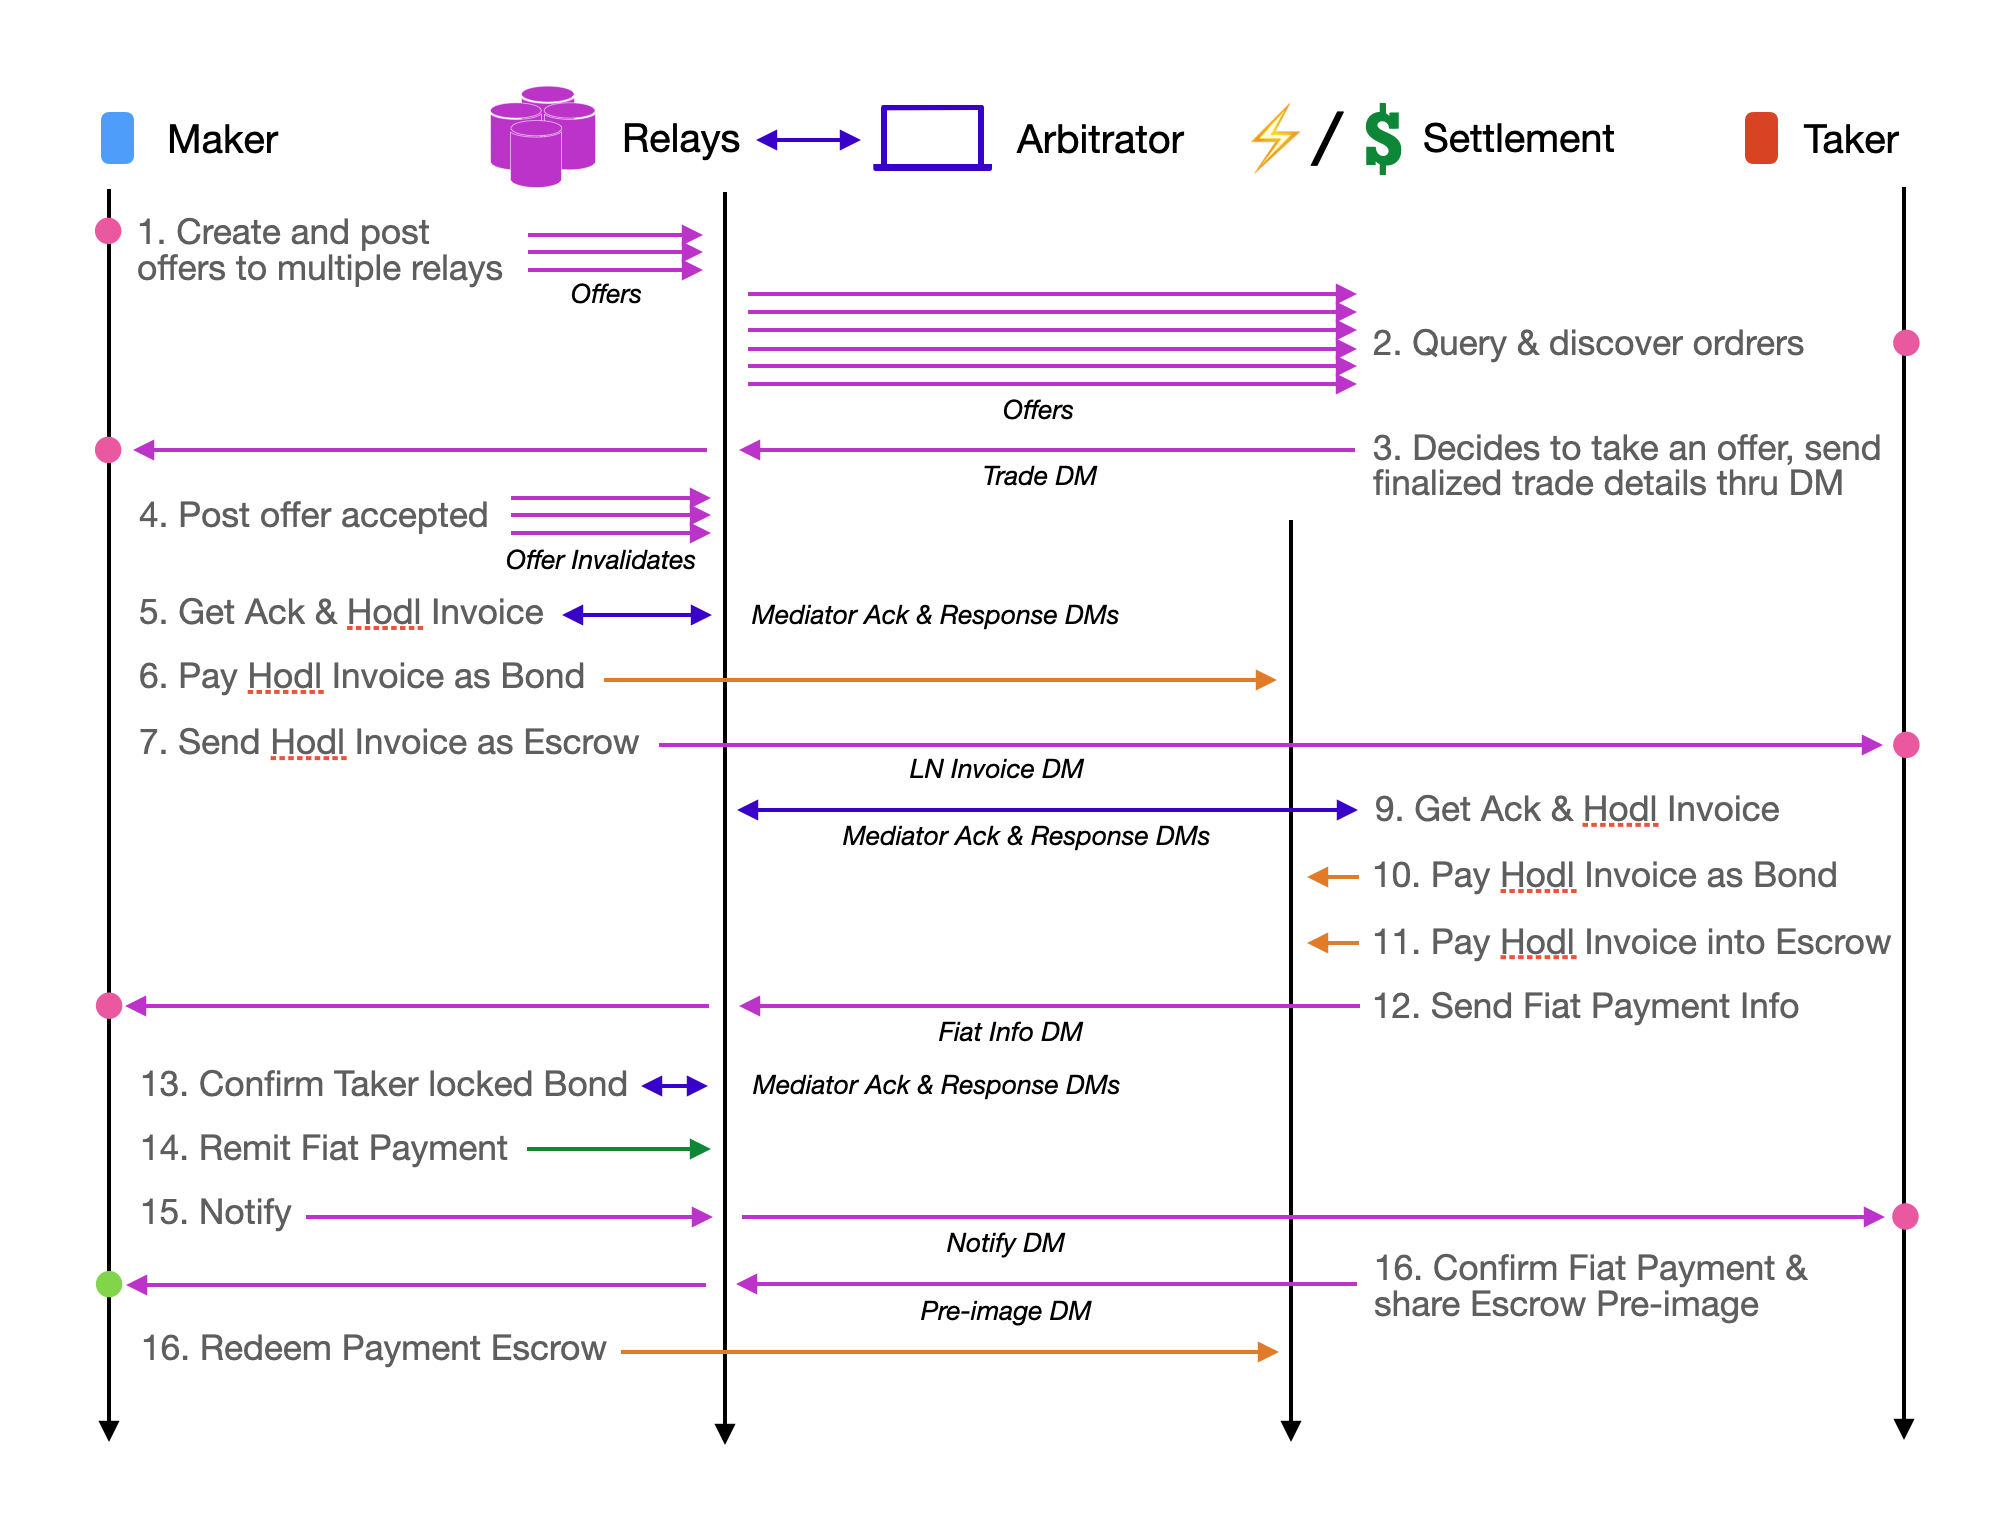
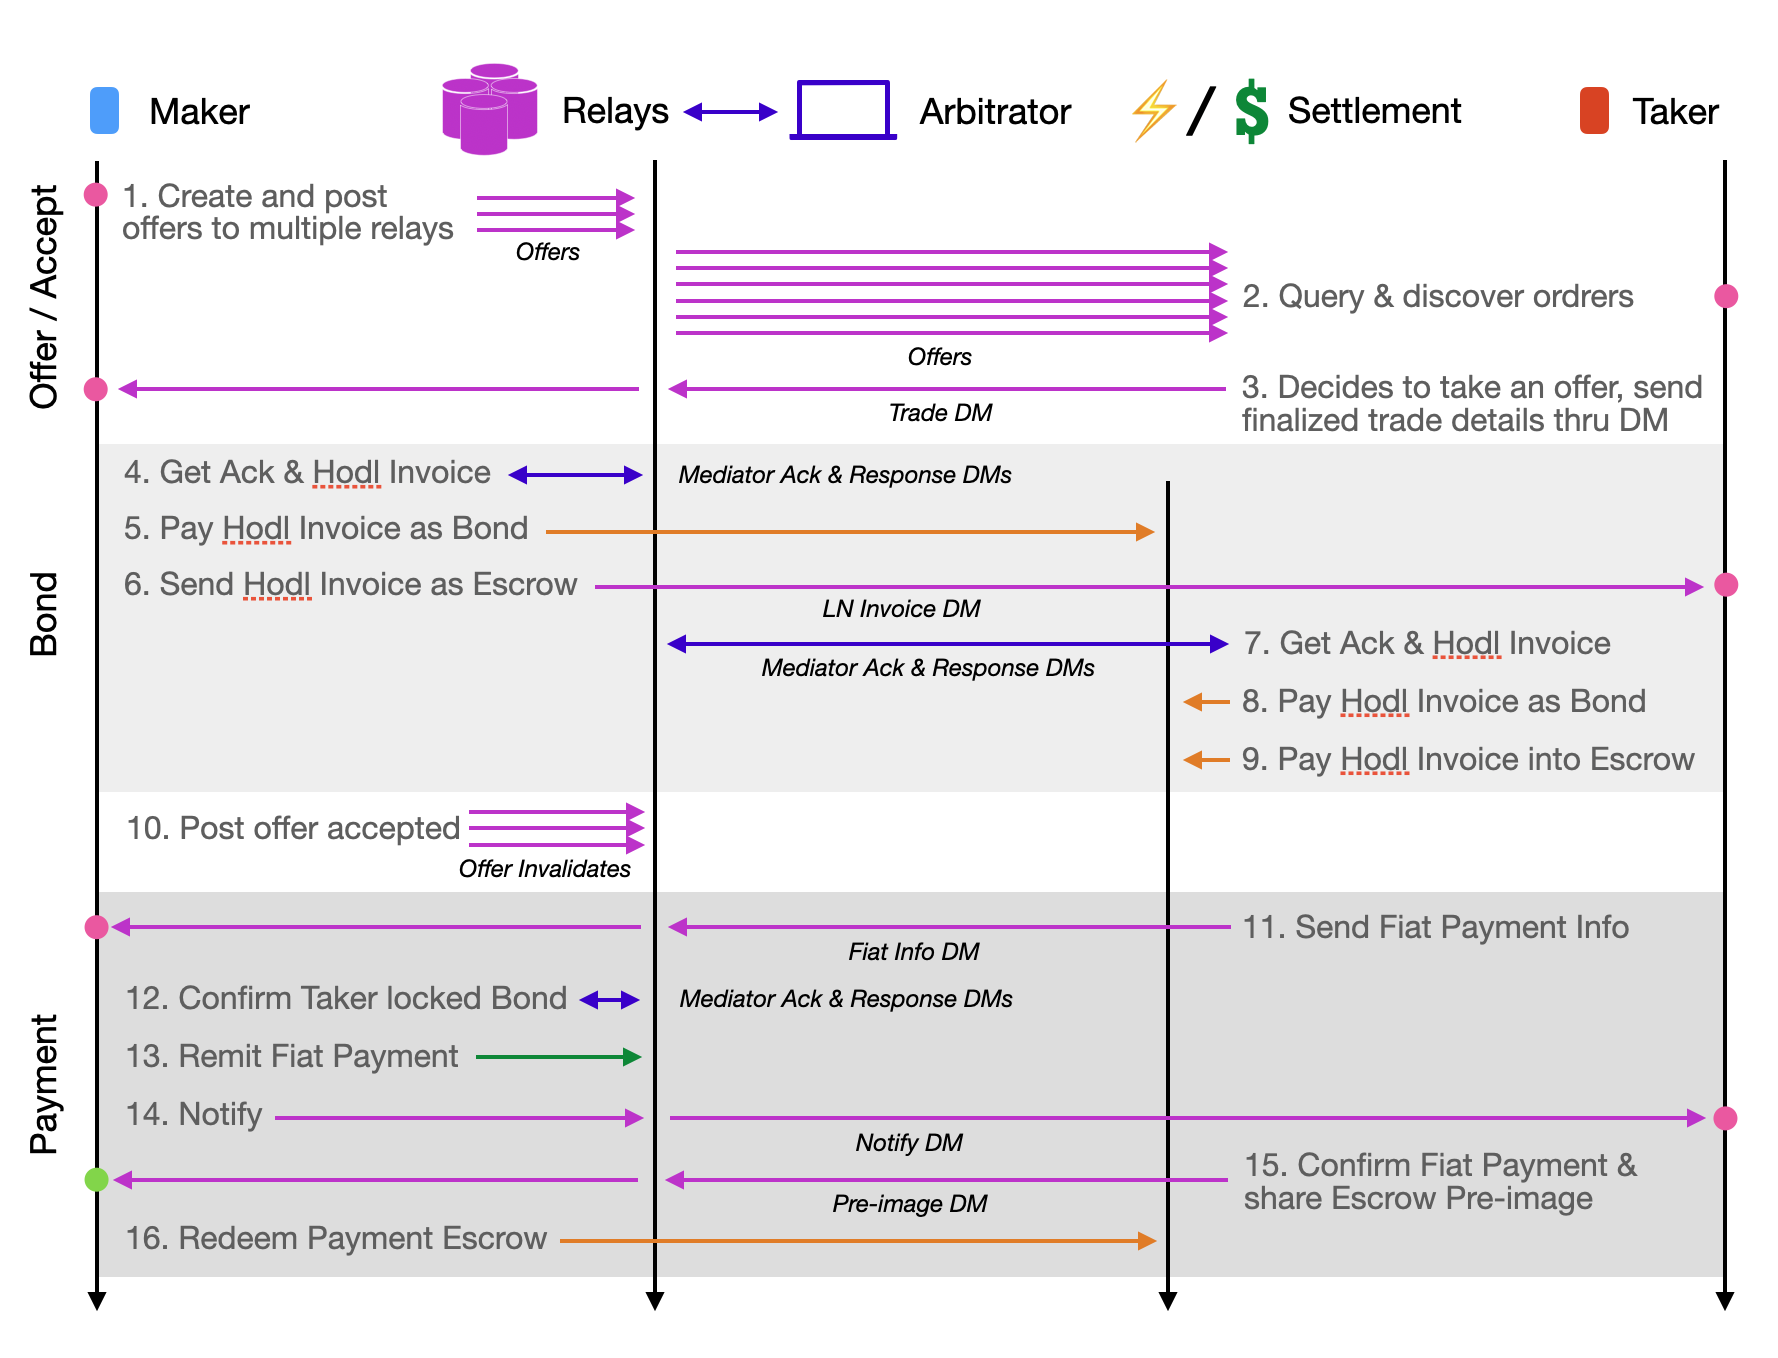
- Added 'Attacks' brainstorm document - Reconfigured XIP-01 diagrams to reflect concerns in Attacks - Added 'Separation of Concerns' in 'Philosophy'

diff --git a/Attacks.md b/Attacks.md
@@ -1,0 +1,65 @@
+# Attack Vectors
+This is a compendium of potential attack vectors that has been brainstormed, strategies available to counteract, the adopted design choice and the rationale for choosing it.
+
+## Maker Offer SPAM
+### Attack
+Attacking Makers SPAMs the network with large amount of offers, potentially for fraudulent purposes or as a DoS attack.
+
+### Mitigation
+Attack at the Nostr layer is out of the scope of the DEX design. In terms of Maker SPAM as a way to conduct fraud or as a fishing attack on Takers, DEX should design so that client only reveals information or even payment only after the Maker has proven sufficient stake has been burned or committed. For example to ensure Proof of Work have been conducted before bond commitment, and bond commitment has been done before payment.
+
+## Taker SPAM & PII Fishing
+### Attack
+Attacking Taker SPAMs Makers by responding to a large number of offers, potentially for fraudulent purposes or to dry up liquidity.
+
+### Mitigation
+DEX should be designed so that client only reveals information or even payment only when the Taker has proven sufficient stake has been burned or committed. For example to ensure Proof of Work have been conducted before bond commitment, and bond commitment has been done before payment information, etc
+
+To prevent liquidity draining attacks, offers should not be removed from the market until the Taker has committed some sort of stake, like a bond. Maker should be allowed to service multiple takers for the same offer until a taker successfully committed a bond. Trade mechanism should make it safe so that a trade can still be cancelled with no penalty (aside from wasted PoW computation) from either side up until that point.
+
+## Maker Doxxing
+### Attack
+Maker pubkey in plaintext can encourage analysis and doxxing. Also Maker IP might be visible to either the relays or to the public.
+
+### Mitigation
+There is probably no good way to hide a Maker's pubkey, especially if a Taker is to be able to respond to the Maker to take the offer. Client can potentially make sure there is no pubkey reuse between trades. However this can get in the way if a maker is trying to build up a reputation. If a reputation system is to be built, Hierarchial Deterministic key structure should be considered to be adopted, along with potentially the use of Zero Knowledge Proofs.
+
+## Taker Doxxing
+### Attack
+Taker pubkey in plaintext can encourage analysis and doxxing. Also Taker IP might be visible to either the relays or to the public.
+
+### Mitigation
+Taker's pubkey can be hidden if all of the taker/maker interactions are conducted only through Encrypted DMs with NIP-24 or equivalent. Taker privacy can be even more enhanced by clients not reusing keys, along with potentially deriving new keys using a Hierarchial Deterministic key structure. If a reputation system is to be built, Hierarchial Deterministic key would be even more important to preserve both privacy and deterministic key usage. Zero Knowledge Proofs might also help with performing attestation without revealing the taker's identity.
+
+With all that said however, privacy might have to be degraded significantly if push notification is to be employed. As ultimately phone and push providers will know who the ultimate identity of most mobile devices are. This might be a design trade off that has to be made with no good win-win outcomes.
+
+## Arbitrator Trust
+### Attack
+A level of trust is unavoidable in the 3rd party arbitrator. The arbitrator can potentially take the traders' bonds, or even the full amount in some cases.
+
+### Mitigation
+The currently deployed arbitration schemes on the market do have limited trust on the arbitrators. In the case of Bisq if the trade does not complete in 4 days, the arbitrator gets essentially full control of all on-chain funds, bonds and the traded amount alike. Trades that goes into arbitration is a low percentage however so this is not a huge problem. Moreover in the case of Bisq, the arbitration role is overseen and checked by the Bisq DAO, which is an organization that has pretty good decentralization, along with check and balances.
+
+In the case of Robosats, the arbitrator there is fully trusted with the bond amount from the startup up until the HTLC expires. Once a trade goes into arbitration, it does seem that they also have at least the ability to unilaterally release Bitcoins to the buyer if wanted. There seems to be no way however for the arbitrator to ever get to the actual Bitcoin funds at any point. The arbitrator is a fully centralized and trusted role in this case.
+
+The ideal endpoint for an arbitrator role in the N3XB ecosystem is a market of reputable and broadly trusted 3rd parties that traders' can select and choose as the arbitrator for trades. The marketplace should be a good check against dishonest arbitrators, and will reward arbitrators with either a track record or innovative governance structures like a DAO. There also needs to be incentives (per trade / per arbitration / subscription based arbitration fee) for arbitrators so that there will be an actual vibrant market where incentives between arbitrators and traders as a broad group aligns.
+
+## Arbitrator Doxxing
+### Attack
+Arbitrators can be easily doxxed and be an attack vector for the ecosystem.
+
+### Mitigation
+This is unfortunately very hard to avoid as the arbitrator is a trusted role that relies on a somewhat public reputation for the trust to occur. A diverse free market of arbitrators hopefully will allow for those with the best balance between trustworthiness and censorship resistance to thrive. There also needs to be incentives (per trade / per arbitration / subscription based arbitration fee) for arbitrators so that there will be an actual vibrant market where incentives between arbitrators and traders as a broad group aligns.
+
+## Relay Centralization and Shutdown
+### Attack
+There is a level of risk for Relay centralization and risk where Relays be under attack and either be shutdown, or be pressured to censor trade traffic
+### Mitigation
+
+## Fiat Chargeback Risk
+### Attack
+There is a risk where traders chargebacks fiat payment, which does not settle immediately, against the Bitcoin they received as part of the trade, causing the seller's payout be clawed back. 
+### Mitigation
+There are potentially 2 mitigations to this:
+1. Keeping the on-chain payout and bond to be released only after a sufficient time have passed, where the charge back risk is sufficiently low
+2. Building a reputation system for traders so those with more of a good track record of successful non-fradulent trades will be rewarded.

diff --git a/Philosophy.md b/Philosophy.md
@@ -31,10 +31,16 @@ To increase usability for clients with resource and performance constraint like 
 
 Many social media and marketplaces alike employs proprietary and closed datasets and protocols. They are not designed from the ground up for alternative projects and implementations to spring up. At best a monolithic implementation is created, and a limited external API, entirely dependent and controlled by the main project, is opened up. Between usability, platform risks, control and ownership, these APIs are rarely used. Those who chooses to use them sometimes gets 'rug-pulled' with the API unilaterally change, or be closed off without notice. This is great if the objective is for these projects to defend their network effects, but this comes at the detriment of diverse experimentation, innovation and any significant network effect to be bootstrapped at all.
 
-An open protocol designed for interoperability and multiple compatible implementations allow multiple projects and effort to contribute towards a common network effect. This type of architecture usually are not conducive to allow a monopoly to form and enable monetization of said network effect. In-spite of usually lacking investment from return seeking VCs, they often still innovate in rapid pace once product market fit is achieved. Best examples includes Bitcoin and Nostr, where the value from the network effect is captured by the user, not the founders. Incentivizing every user to contribute in building the network. The barrier to entry in creating an alternative client or experiment with protocol enhancements is also greatly lowered, as anyone can quickly tap into the network effect and innovate.
+An open protocol designed for interoperability and multiple compatible implementations allow multiple projects and effort to contribute towards a common network effect. This type of architecture usually are not conducive to allow a monopoly to form and enable monetization of said network effect. In-spite of usually lacking investment from return seeking VCs, they often still innovate in rapid pace once product market fit is achieved. Best examples includes Bitcoin and Nostr, where the value from the network effect is captured by the user, not the founders. Incentivize every user to contribute in building the network. The barrier to entry in creating an alternative client or experiment with protocol enhancements is also greatly lowered, as anyone can quickly tap into the network effect and innovate.
 
 ## Abstraction
 
 Instead of building out a highly specific, rigid, singular purpose protocol and architecture. Another alternative is to start with an extremely simple and abstract base protocol, and build more specificity and applications on top of it. Nostr is a great example, where the initial specification only specified an idea. NIP-001 only specified the initial event object along with several generic request and subscription commands. Allowing subsequent NIP to flesh out and adapt the base protocol for specific applications. This allowed independent projects the room to use the generic abstract base protocol as they see fit. As a result we have seen P2P chess applications built on top of Nostr, and potentially the N3X protocol as we are describing, amongst other use-cases.
 
-For N3X and N3XB, the idea is to create a base protocol regarding what the most abstract generic marketplace transaction might look like (N3X), and then build additional specificity on-top. For example, specificity regarding Bitcoin <=> fiat trading (N3XB), versus a marketplace for extra-legal contract and arbitration, or an eBay type marketplace for goods, etc. 
+For N3X and N3XB, the idea is to create a base protocol regarding what the most abstract generic marketplace transaction might look like (N3X), and then build additional specificity on-top. For example, specificity regarding Bitcoin <=> fiat trading (N3XB), versus a marketplace for extra-legal contract and arbitration, or an eBay type marketplace for goods, etc.
+
+## Separation of Concerns
+
+In many projects, different parts of the solution are often mostly owned by the same entity with little alternatives. The simplest example is a platform like Twitter, where the backend datastore, the client, the moderation, etc are all owned and controlled by Twitter the company. A free market for each component to be freely experimented and checked by competitors will improve censorship resistance and allow innovation of the user experience. A great example would be Bitcoin, where the miners, the node operators, the developers and the token owner are all distinct minimally overlapping entities, checking each other to achieve the ultimate decentralization and censorship resistance.
+
+In a decentralize exchange, the goal would be to have the same separation concerns, where many clients by different creators can inter-op with different relays, a vibrant market of arbitrating entities, many deep liquidity orderbooks, and a variety of Bitcoin and fiat payment rails.

diff --git a/xips/00/00.md b/xips/00/00.md
@@ -3,6 +3,8 @@ N3X is the generic contract layer, primarily with a single abstract sub-object r
 
 Clients can choose to implement and understand whatever offer type it supports. Clients do not need to understand every type of offers or support all trade mechanisms. Its possible to have a trade client that only discovers particular kinds of on-chain trades, but not Lightning trades. Or clients that do not deal with trades that has any settlement with Bitcoin at all, and only uses Bitcoin as fidelity bonds to protect the non-Bitcoin settled trade.
 
+It is not mandatory, but it is recommended that clients and trade designs implements Proof of Work requirements into the initial order making and taking process.
+
 ### Kind
 | kind | description           |
 | ---- | --------------------- |
@@ -23,15 +25,14 @@ Clients can choose to implement and understand whatever offer type it supports. 
     "taker_obligation_details": <arbitrary JSON specifying obligation taker has to fulfill contract>
     "dispute_resolution_type": <integer>
     "dispute_resolution_details": <arbitrary JSON?>
-    "pow_algo": <string code for hash algo to use for PoW>
-    "pow_difficulty": <minimum number of zeros required to pass PoW spam filter, in integer>
+    "pow_difficulty": <minimum difficulty for a NIP-13 note to Take the order, in integer>
   }
   ...
 }
 ```
 
 ### N3X Offer Invalidate Object
-Since Nostr event persists in a relay indefinitely, invalidate events are needed to mark that an offer have been either accepted or discarded. This also gives reassurnce to the taker that they are the one that have gotten the offer locked and can continue with the trade.
+Since Nostr event persists in a relay indefinitely, invalidate events are needed to mark that an offer have been either accepted or discarded. This also gives reassurance to the taker that they are the one that have gotten the offer locked and can continue with the trade.
 ```
 {
   ...
@@ -47,6 +48,8 @@ Since Nostr event persists in a relay indefinitely, invalidate events are needed
 N3X Encrypted Messaging is a standardization of communications between participants of an exchange, including the maker, taker, arbitrators, etc. Nostr event `kind` value of 4 will remain to be used to make it difficult to distinguish N3X messages from regular DMs. N3X messages will be distinguished via a marked header in the beginning of the Nostr event `content` where trade participant's client software would understand to be a N3X encrypted message.
 
 Often times manual user actions, or a wake-up of a mobile client, is required to make sure the trade continues. Mobile push notification will be very valuable in these cases. As it is Nostr does not have any support for generating mobile push notifications. A NIP proposal have been made for mobile push [here](https://github.com/nostr-protocol/nips/issues/257). This is not required to make N3XB possible, but it would be a huge improvement to the overall experience and usability if the capability is available.
+
+NIP-24 is also a work in progress to make Nostr DM more anonymous. However if push notification is to be employed by relays, there is no way to obfuscate who the actual recipient is. This might be a privacy trade-off that a client implementation must make.
 
 ### N3X Encrypted Message Object
 ```

diff --git a/xips/02/02.md b/xips/02/02.md
@@ -1,0 +1,1 @@
+# Trade History Reputation
